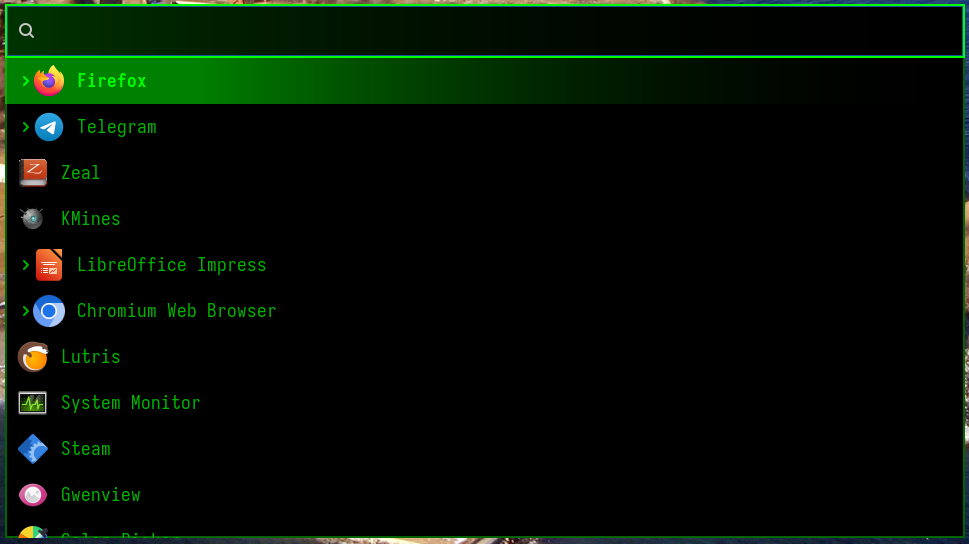
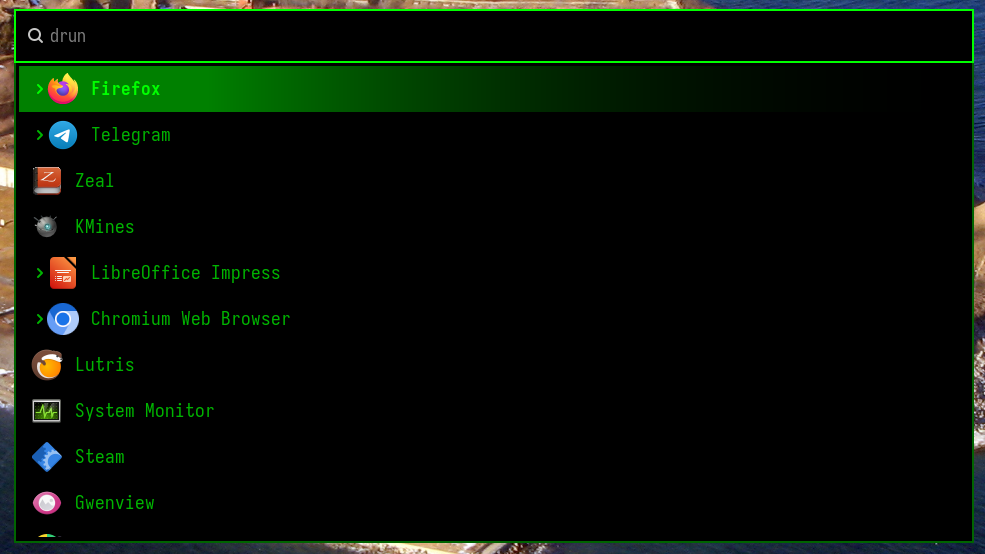
feat:add a-few-wofi-themes

Changed region(s): [[0.0, 0.0, 1.0, 1.0]]

diff --git a/themes/indigo/style.css b/themes/indigo/style.css
@@ -1,0 +1,58 @@
+#window {
+    background-color: rgba(0, 0, 0, 1);
+    border-radius: 2rem 2rem 2rem 2rem;
+    border: 2px solid rgba(100, 100, 100, 1);
+    font-size: 1.6rem;
+    font-family: 'Iosevka Nerd Font', 'FiraCode Nerd Font', 'Adwaita Mono', monospace;
+}
+#input {
+    background: linear-gradient(
+        to right,
+        rgba(0, 0, 255, 0.1) 0%,
+        rgba(255, 0, 255, 0.05) 100%
+    );
+    color: rgba(200, 200, 200, 1);
+    border: none;
+    padding: 0.8rem 1rem;
+    font-size: 1.5rem;
+    border-radius: 2rem 2rem 0 0;
+    border-top: 2px solid rgba(120, 120, 120, 1);
+    border-left: 2px solid rgba(120, 120, 120, 1);
+    border-right: 2px solid rgba(120, 120, 120, 1);
+}
+#input:focus, #input:focus-visible, #input:active {
+    background: linear-gradient(
+        to right,
+        rgba(0, 0, 255, 0.4) 0%,
+        rgba(255, 0, 255, 0.3) 100%
+    );
+}
+#scroll {
+    margin-top: 3px;
+    margin-bottom: 20px;
+    margin-right: 5px;
+    margin-left: 5px;
+}
+#entry {
+    color: rgba(0, 0, 200, 1);
+    background-color: rgba(0, 0, 0, 0);
+    padding: 0.6rem 1rem;
+}
+#img {
+    width: 1rem;
+    margin-right: 1.0rem;
+}
+#entry:selected {
+    color: rgba(100, 100, 100, 1);
+    background: linear-gradient(
+        to right,
+        rgba(0, 0, 255, 0.5) 20%,
+        rgba(0, 0, 0, 0) 80%
+    );
+    outline: none;
+}
+#text:selected {
+    color: rgba(0, 0, 255, 1);
+    font-weight: 700;
+}
+

diff --git a/themes/paperwater/style.css b/themes/paperwater/style.css
@@ -1,0 +1,55 @@
+#window {
+    background-color: rgba(255, 255, 255, 1);
+    border-radius: 1.0rem;
+    border: 1px solid rgba(0, 0, 0, 0.1);
+    font-size: 1.6rem;
+    font-family: 'Segoe UI', Tahoma, 'Adwaita Mono', monospace;
+    text-shadow: 0 2px 2px rgba(0, 0, 0, 0.4);
+}
+#input {
+    background-color: rgba(255, 255, 255, 1);
+    color: rgba(0, 0, 0, 1);
+    border: 1px solid rgba(0, 0, 0, 0.5);
+    border-radius: 1rem;
+    padding: 0.8rem 1rem;
+    font-size: 1.5rem;
+}
+#input:focus, #input:focus-visible, #input:active {
+    background: linear-gradient(
+        to right,
+        rgba(50, 255, 255, 0.3) 0%,
+        rgba(50, 255, 255, 0.15) 100%
+    );
+}
+#scroll {
+    margin-top: 3px;
+    margin-bottom: 10px;
+    margin-right: 3px;
+}
+#entry {
+    color: rgba(40, 40, 40, 1);
+    background-color: rgba(255, 255, 255, 1);
+    padding: 0.6rem 1rem;
+    border-radius: 0rem;
+}
+#img {
+    width: 1rem;
+    margin-right: 1.0rem;
+}
+#entry:unselected {
+    color: rgba(40, 40, 40, 1);
+    background-color: rgba(255, 255, 255, 1);
+}
+#entry:selected {
+    color: rgba(0, 0, 0, 1);
+    background: linear-gradient(
+        to right,
+        rgba(50, 255, 255, 0.2) 0%,
+        rgba(255, 255, 255, 0) 100%
+    );
+    outline: none;
+}
+#text:selected {
+    color: rgba(0, 0, 0, 1);
+    font-weight: 700;
+}

diff --git a/themes/neo/style.css b/themes/neo/style.css
@@ -20,8 +20,15 @@
         rgba(0, 0, 0, 0) 100%
     );
 }
+#scroll {
+    margin-top: 3px;
+    margin-bottom: 6px;
+    margin-right: 5px;
+    margin-left: 5px;
+}
 #entry {
     color: rgba(0, 180, 0, 1);
+    background-color: rgba(0, 0, 0, 1);
     padding: 0.6rem 1rem;
 }
 #img {
